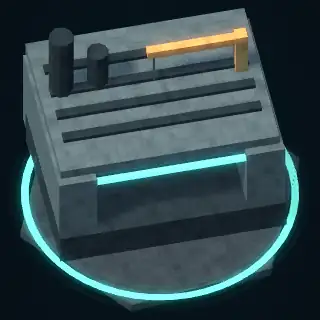
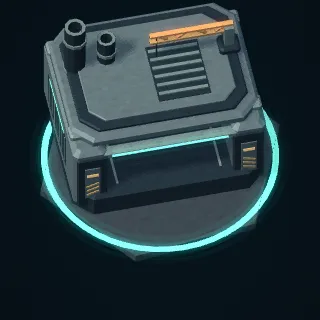
feat: detail faction 0 factory and flight deck models

diff --git a/src/renderer/models/faction-0-building-factory.js b/src/renderer/models/faction-0-building-factory.js
@@ -1,20 +1,81 @@
-/* Faction 0 / building / factory. Local +Z is the production exit. */
+/* Faction 0 / building / factory. Heavy assembly hall; production exit is +Z.
+   Fixed armor/exhausts are baked once. No moving crane, smoke or simulation state. */
 'use strict';
-registerEntityModel({
-  id: 'faction-0/building/factory',
-  render({ part: p, metal, dark, team, accent }) {
-    p('box', 0, 0.7, -0.5, 6.5, 1.2, 4.7, dark);
-    p('box', -2.7, 2, -0.8, 1.1, 2.8, 4.9, metal);
-    p('box', 2.7, 2, -0.8, 1.1, 2.8, 4.9, metal);
-    p('box', 0, 3.5, -1, 6.3, 0.42, 4.8, metal);
-    p('box', 0, 1.65, -2.7, 4.7, 2.1, 0.4, 0x30434f);
-    p('box', 0, 1.5, -2.43, 3.6, 1.4, 0.1, 0xed975d, 0, 0, 0, 0.7);
-    p('box', 0, 3.1, 1.46, 5.1, 0.15, 0.15, team, 0, 0, 0, 0.75);
-    for (let j = 0; j < 4; j++) p('box', 0, 3.76, j * 0.85 - 2.3, 5.7, 0.15, 0.28, dark);
-    p('cylinder', -2.5, 4.75, -1.6, 0.36, 2.4, 0.36, dark);
-    p('cylinder', -1.45, 4.3, -1.6, 0.31, 1.5, 0.31, dark);
-    p('box', 2.6, 4.2, -1.3, 0.35, 2, 0.35, accent);
-    p('box', 1.3, 5, -1.3, 2.8, 0.26, 0.26, accent);
-    p('box', 0.1, 4.35, -1.3, 0.055, 1.15, 0.055, metal);
+(() => {
+  function createFactoryHull() {
+    const out = [], box = geom.box(), cylinder = geom.cylinder(10),
+      metal = [1, 1, 1], dark = [.32, .4, .47], trim = [1.22, 1.22, 1.15];
+    const panel = (x, y, z, w, h, d, bevel, tint = metal) =>
+      ModelMesh.panel(out, { x, y, z, w, h, d, bevel, tint });
+    const part = (x, y, z, sx, sy, sz, tint = metal, rz = 0) =>
+      ModelMesh.bake(out, box, { x, y, z, sx, sy, sz, tint, rz });
+
+    panel(0, .65, -.5, 6.45, 1.1, 4.7, .12, dark);
+    panel(0, 3.5, -1, 6.3, .42, 4.8, .1);
+    panel(0, 3.79, -1.02, 5.65, .18, 4.25, .045, dark);
+    panel(0, 3.925, -.98, 4.95, .13, 3.65, .03);
+    panel(0, 3.05, 1.46, 4.65, .34, .36, .08, trim);
+    // Recessed rear wall and segmented blast shutter leave the forward bay open.
+    part(0, 1.75, -2.7, 4.65, 2.15, .4, dark);
+    for (let i = 0; i < 5; i++) part(0, 1.25 + i * .29, -2.484, 3.65, .2, .035, trim);
+    for (const side of [-1, 1]) {
+      panel(side * 2.67, 2, -.8, 1.14, 2.8, 4.9, .18);
+      panel(side * 2.62, 1.85, 1.51, 1.02, 2.55, .38, .09, dark);
+      part(side * 2.62, 1.86, 1.715, .52, 1.52, .04, metal);
+      // Side cooling banks sit in dark wells, between robust shoulder plates.
+      part(side * 3.247, 2.03, -.9, .016, 1.4, 2.8, dark);
+      for (let i = 0; i < 7; i++) part(side * 3.259, 2.03, -2.04 + i * .38, .025, 1.21, .105, trim);
+      for (const z of [-2.75, .78]) panel(side * 2.67, 3.49, z, 1.1, .27, .54, .065, trim);
+      part(side * 1.73, 1.214, -.28, .08, .025, 3.45, trim);
+    }
+    // Roof intake with broad louvers, distinct from the barracks' paired banks.
+    part(.75, 4.004, -.65, 1.75, .025, 2.25, dark);
+    for (let i = 0; i < 6; i++) part(.75, 4.053, -1.54 + i * .35, 1.65, .065, .12, trim);
+    // Closed, hollow-topped exhaust stubs: dark inner walls and recessed floors.
+    const exhaust = (x, top, radius) => {
+      const base = 3.62, z = -1.65, inner = radius * .65;
+      const point = (i, r, y) => [x + Math.cos(i * Math.PI / 5) * r, y, z + Math.sin(i * Math.PI / 5) * r];
+      for (let i = 0; i < 10; i++) {
+        const a = point(i, radius, base), b = point(i + 1, radius, base),
+          c = point(i, radius, top), d = point(i + 1, radius, top),
+          e = point(i, inner, top), f = point(i + 1, inner, top),
+          g = point(i, inner, top - .32), h = point(i + 1, inner, top - .32);
+        geom.tri(out, a, c, d, dark); geom.tri(out, a, d, b, dark);
+        geom.tri(out, c, e, f, trim); geom.tri(out, c, f, d, trim);
+        geom.tri(out, e, g, h, dark); geom.tri(out, e, h, f, dark);
+        geom.tri(out, [x, top - .32, z], h, g, [.18, .22, .27]);
+        geom.tri(out, [x, base, z], a, b, dark);
+      }
+      for (const y of [3.77, top - .65])
+        ModelMesh.bake(out, cylinder, { x, y, z, sx: radius * 1.13, sy: .14, sz: radius * 1.13, tint: trim });
+    };
+    exhaust(-2.5, 5.95, .36);
+    exhaust(-1.45, 5.05, .31);
+    // Fixed crane footing and cable; its safety-yellow beam remains separately tinted.
+    panel(2.58, 4.08, -1.3, .7, .3, .7, .07, dark);
+    part(2.58, 4.6, -1.3, .32, .98, .32, trim);
+    part(.16, 4.45, -1.3, .045, 1.15, .045, dark);
+    part(.28, 3.895, -1.3, .28, .09, .1, trim);
+    return out;
   }
-});
+
+  registerEntityModel({
+    id: 'faction-0/building/factory',
+    meshes: { faction0FactoryHull: createFactoryHull },
+    render({ part: p, metal, team, accent }) {
+      p('faction0FactoryHull', 0, 0, 0, 1, 1, 1, metal);
+      p('box', 0, 3.07, 1.657, 3.9, .1, .025, team, 0, 0, 0, .75);
+      p('box', 0, 2.43, -2.451, 3.6, .1, .025, 0xed975d, 0, 0, 0, .5);
+      for (const side of [-1, 1]) {
+        p('box', side * 2.62, 2.28, 1.746, .39, .12, .025, accent, 0, 0, 0, .35);
+        p('box', side * 3.278, 2.83, -.9, .025, .13, 2.2, team, 0, 0, 0, .3);
+        for (let i = 0; i < 3; i++)
+          p('box', side * 2.62, 1.35 + i * .21, 1.746, .44, .08, .025, accent, 0, 0, side * -.35);
+      }
+      // Open truss crane: two rails and diagonal braces instead of a glowing stick.
+      for (const y of [4.9, 5.22]) p('box', 1.33, y, -1.3, 2.8, .09, .18, accent);
+      for (let i = 0; i < 4; i++)
+        p('box', .35 + i * .65, 5.06, -1.3, .055, .43, .12, accent, 0, 0, i % 2 ? -.9 : .9);
+    }
+  });
+})();

diff --git a/src/renderer/models/faction-0-building-hangar.js b/src/renderer/models/faction-0-building-hangar.js
@@ -1,21 +1,72 @@
-/* Faction 0 / building / hangar. Local +Z is the production exit/deck. */
+/* Faction 0 / building / hangar. Open +Z flight apron, fixed port control tower.
+   Deck and armor are baked once; H marking, approach lights and glazing stay instanced. */
 'use strict';
-registerEntityModel({
-  id: 'faction-0/building/hangar',
-  render({ part: p, metal, dark, team }) {
-    p('box', 0, 0.7, -0.5, 6.5, 1.2, 4.7, dark);
-    p('box', -2.7, 2, -0.8, 1.1, 2.8, 4.9, metal);
-    p('box', 2.7, 2, -0.8, 1.1, 2.8, 4.9, metal);
-    p('box', 0, 3.5, -1, 6.3, 0.42, 4.8, metal);
-    p('box', 0, 1.65, -2.7, 4.7, 2.1, 0.4, 0x30434f);
-    p('box', 0, 1.5, -2.43, 3.6, 1.4, 0.1, team, 0, 0, 0, 0.7);
-    p('box', 0, 3.1, 1.46, 5.1, 0.15, 0.15, team, 0, 0, 0, 0.75);
-    for (let j = 0; j < 4; j++) p('box', 0, 3.76, j * 0.85 - 2.3, 5.7, 0.15, 0.28, dark);
-    p('hex', 0, 0.25, 3.0, 3.1, 0.14, 3.1, metal);
-    p('box', -0.65, 0.36, 3, 0.12, 0.03, 1.8, team);
-    p('box', 0.65, 0.36, 3, 0.12, 0.03, 1.8, team);
-    p('box', 0, 0.36, 3, 1.3, 0.03, 0.12, team);
-    p('box', -2.6, 4.5, -1.5, 1.15, 1.6, 1.1, metal);
-    p('box', -2.6, 5.0, -0.9, 1.18, 0.45, 0.08, team, 0, 0, 0, 0.7);
+(() => {
+  function createHangarHull() {
+    const out = [], box = geom.box(), hex = geom.cylinder(6),
+      metal = [1, 1, 1], dark = [.34, .42, .49], trim = [1.23, 1.25, 1.2];
+    const panel = (x, y, z, w, h, d, bevel, tint = metal) =>
+      ModelMesh.panel(out, { x, y, z, w, h, d, bevel, tint });
+    const part = (x, y, z, sx, sy, sz, tint = metal) =>
+      ModelMesh.bake(out, box, { x, y, z, sx, sy, sz, tint });
+
+    panel(0, .66, -.5, 6.45, 1.12, 4.7, .13, dark);
+    panel(0, 3.49, -1, 6.3, .44, 4.8, .11);
+    panel(0, 3.77, -1.04, 5.65, .18, 4.22, .045, dark);
+    panel(.18, 3.91, -.96, 4.74, .14, 3.57, .035);
+    panel(0, 3.06, 1.45, 4.62, .28, .4, .07, trim);
+    part(0, 1.7, -2.7, 4.65, 2.1, .4, dark);
+    for (let i = 0; i < 5; i++) part(0, 1.18 + i * .3, -2.484, 3.7, .23, .03, metal);
+    for (const side of [-1, 1]) {
+      panel(side * 2.67, 2, -.8, 1.14, 2.8, 4.9, .19);
+      panel(side * 2.64, 1.84, 1.53, .95, 2.45, .36, .085, dark);
+      part(side * 2.64, 1.83, 1.727, .54, 1.53, .025, metal);
+      // Long hangar shoulder rails, smaller than the foundry's cooling armor.
+      panel(side * 2.66, 3.47, -.68, 1.02, .23, 3.9, .055, trim);
+      part(side * 3.248, 1.8, -.7, .015, .86, 2.7, dark);
+      for (let i = 0; i < 6; i++) part(side * 3.262, 1.8, -1.8 + i * .43, .025, .72, .09, trim);
+    }
+    // Same hexagonal apron footprint, two shallow deck levels and tie-down plates.
+    ModelMesh.bake(out, hex, { y: .25, z: 3, sx: 3.1, sy: .14, sz: 3.1, tint: dark });
+    ModelMesh.bake(out, hex, { y: .35, z: 3, sx: 2.94, sy: .06, sz: 2.94, tint: metal });
+    for (const side of [-1, 1]) {
+      for (const z of [2.3, 3.2, 4.1]) {
+        part(side * 1.72, .393, z, .35, .025, .27, dark);
+        part(side * 1.72, .412, z, .13, .014, .08, trim);
+      }
+      part(side * 1.03, .398, 3.18, .045, .025, 2.34, trim);
+      // Nose access/maintenance modules do not extend the original deck outline.
+      panel(side * 1.05, .34, 5.08, .7, .25, .44, .06, dark);
+    }
+    // Compact asymmetric control tower and roof service trunk.
+    panel(-2.6, 4.48, -1.5, 1.15, 1.58, 1.1, .12);
+    panel(-2.6, 5.23, -1.5, 1.27, .14, 1.2, .035, dark);
+    panel(-2.6, 5.33, -1.5, .94, .08, .87, .02, trim);
+    panel(.8, 4.065, -1.1, .72, .2, 2.45, .045, dark);
+    for (let i = 0; i < 5; i++) part(.8, 4.185, -1.9 + i * .39, .55, .065, .12, trim);
+    part(-.76, 4.008, -.88, .055, .025, 2.5, dark);
+    return out;
   }
-});
+
+  registerEntityModel({
+    id: 'faction-0/building/hangar',
+    meshes: { faction0HangarHull: createHangarHull },
+    render({ part: p, metal, team, accent }) {
+      p('faction0HangarHull', 0, 0, 0, 1, 1, 1, metal);
+      p('box', 0, 3.07, 1.667, 3.92, .095, .025, team, 0, 0, 0, .75);
+      p('box', 0, 2.48, -2.458, 3.4, .12, .025, team, 0, 0, 0, .4);
+      // Broad H plus paired approach lights, readable from the battle camera.
+      for (const side of [-1, 1]) {
+        p('box', side * .65, .407, 3.25, .14, .025, 1.8, team, 0, 0, 0, .2);
+        for (const z of [2.2, 3.3, 4.4])
+          p('box', side * 1.95, .406, z, .19, .035, .22, team, 0, 0, 0, .65);
+        p('box', side * 2.64, 2.36, 1.753, .44, .105, .025, accent, 0, 0, 0, .3);
+        p('box', side * 2.66, 3.601, -.68, .08, .025, 2.85, team, 0, 0, 0, .25);
+      }
+      p('box', 0, .407, 3.25, 1.3, .025, .14, team, 0, 0, 0, .2);
+      p('box', -2.6, 4.91, -.938, .81, .3, .025, team, 0, 0, 0, .65);
+      p('box', -3.188, 4.91, -1.5, .025, .3, .68, team, 0, 0, 0, .5);
+      p('box', -2.6, 5.383, -1.5, .22, .035, .22, accent, 0, 0, 0, .4);
+    }
+  });
+})();

diff --git a/docs/rendering.md b/docs/rendering.md
@@ -15,6 +15,9 @@ Technische Modellbezeichner verwenden Fraktionsnummer und Entitätstyp statt Spi
 - **Free-Marches-Worker (Prospector):** kompaktes ockerfarbenes Kettenfahrzeug mit abgeschrägtem Gehäuse/Sensorkopf, Kühler, je drei Laufrollen und 24 Kettengliedern, Scheinwerfern und eingefasstem Signallicht. `geom.workerHull()` bündelt das Fahrgestell in 1.452 Dreiecken; `geom.workerDrill()` ergänzt einen geriffelten Bohrkopf mit 120 Dreiecken. Beide Meshes werden einmal hochgeladen und instanziert. Team-/Vorschaufarben, Ausrichtung und vorhandene Frachtanzeige bleiben erhalten; keine neue Bewegungsanimation, kein RNG und keine Änderungen an Größe, Tempo, Sammeln oder anderen Fraktionen. Tatsächliche Kosten vieler Worker auf Mobil-GPUs noch nicht gemessen.
 - **Free-Marches-HQ:** `geom.commandHull()` bündelt abgeschrägte Rumpf-/Dachpanzerung, Seitenrippen, Eingangspfeiler und Trittstufe in einem einmalig hochgeladenen Mesh mit 1.152 Dreiecken. Vertextönungen multiplizieren die bestehende Metall-/Vorschaufarbe; Leuchten, Dachmarkierungen, Lüftungsgitter und Antennen ergänzen die Hülle als instanzierte Grundformen. Fundament, Teamfarben, Gebäudeausrichtung, Baufortschrittsdarstellung und Spielradien bleiben erhalten; andere Gebäude/Fraktionen unverändert. Keine neuen Texturen, Shader oder RNG-Aufrufe.
 - **Fraktion 0 / Barracks:** `faction0BarracksHull` bündelt abgeschrägte Haupt-/Dachpanzerung, zurückgesetzte +Z-Truppenschleuse mit Eingangspfeilern, seitliche Versorgungsmodule, Dachkühlgitter, Mittelrippe, Wartungsluke und Antenne in **1.392 Dreiecken**. Teamstreifen, Eingangsleuchten und Signalflächen bleiben separate Instanzen. Fertiges Gebäude einschließlich Fundament: **12 Teilinstanzen / 1.620 Dreiecke**, statt 15 / 304; alle Qualitätsstufen verwenden dieselben Meshes. In Isolation vier Meshchargen pro Szenenpass (mit Schatten acht), kein Draw Call je Teil. In einer gemischten Szene kommt die eigene Hüllcharge hinzu. Hauptmesh innerhalb X ±3,1 / Z −2,2 bis +2,25 / Y 0,1–4,6; Kollisionsgröße 3, Produktionsausfahrt, Werte, Drehung, Baufortschritt und Preview-/Gegnerfarben bleiben unverändert. Keine neue Animation, Textur, Shader oder RNG-Aufrufe. Nur `assets/portraits/faction-0-building-barracks.webp` wurde passend erneuert (320×320, WebP-Qualität 80).
+- **Fraktion 0 / Factory (War foundry):** `faction0FactoryHull` mit **1.648 Dreiecken**: abgeschrägte Hallen-/Schulterpanzerung, offene +Z-Montagebucht, zurückgesetztes segmentiertes Schott, seitliche Kühlbänke und zwei innen ausgeformte Abgasstutzen. Feststehender Fachwerkkran, Sicherheitsmarkierungen und Leuchten ergänzen die Hülle. Fertig samt Fundament **21 Teilinstanzen / 1.984 Dreiecke**, zuvor 18 / 368. Hülle innerhalb X ±3,3 / Z −3,4 bis +1,85 / Y 0,1–6; die seitlichen Kühllamellen stehen nur wenige Zentimeter über die bisherige Verkleidung hinaus, Kollisionsgröße unverändert 3,8.
+- **Fraktion 0 / Hangar (Flight deck):** `faction0HangarHull` mit **1.640 Dreiecken**: gerahmte offene +Z-Flugbucht, Schulterpanzerung, seitlicher Kontrollturm, Wartungsaufbau und zweistufiges Hex-Flugdeck mit Halteplatten. Separates H, sechs Anfluglichter und Turmverglasung bleiben teamfarbig. Fertig samt Fundament **21 Teilinstanzen / 1.976 Dreiecke**, zuvor 19 / 336. Hülle innerhalb X ±3,3 / Z −3,4 bis +6,1 / Y 0,1–5,4; das vordere Deck behält seinen bisherigen Hex-Umriss (Radius 3,1, Zentrum Z 3). Dieser sichtbare Vorbau erweitert weiterhin nicht den Kollisionsradius 3,8.
+- **Factory/Hangar-Vertrag:** alle Qualitätsstufen verwenden dieselben Meshes; jeweils vier Meshchargen in Isolation pro Szenenpass, acht einschließlich Schatten. In gemischten Szenen kommen zwei eigene Hüllchargen hinzu. Produktion, Ausfahrtsposition/-richtung, Flugzeuganstieg, Baufortschritt, Team-/Ghost-/Previewdarstellung und Spielwerte bleiben unverändert; keine neue Animation, Rauch, Textur, Shader oder RNG-Aufrufe. Nur die beiden entsprechenden 320×320-Portraits (`faction-0-building-factory.webp`, `faction-0-building-hangar.webp`) wurden aus den tatsächlichen Modellen manuell in Balanced ohne Welt/Himmel erneuert, WebP-Qualität 80.
 - **Aether Vent:** flache achteckige Panzerplattform mit abgeschrägten Kanten, 16 Sockelsegmenten, vier erhöhten Halteklammern und Kristallfassung. `geom.aetherVent()` liefert ein gemeinsames Metallmesh mit 1.152 Dreiecken und vier Vertexfarben; einmal beim Rendererstart hochgeladen, für alle Vents instanziert. Zwei separate cyanfarbene Ringe und der rotierende, richtungsbeleuchtete Kristall ergänzen das Modell. Vorhandene Dampfeffekte bleiben unverändert. Keine neuen Texturen, Shader oder RNG-Aufrufe; Positionen, Ressourcenmengen, Spielradien und Raffineriezugang bleiben erhalten. Alle Qualitätsstufen verwenden dieselbe Geometrie; reale Mobil-GPU-Kosten noch nicht gemessen.
 - **Gebirgsring:** `geom.mountainRing(seed)`, geschlossene Umrandung aus 36.480 Dreiecken statt grober Pyramiden: 384 Umfangsspalten × 40 Hangabschnitte, 20 unregelmäßig verteilte breite Gipfel bis etwa 50 Welteinheiten, vorgelagerte Schultern, Rinnen, mehrskalige Rauheit und 80 eingebettete Geröllfelsen. Eigener kosmetischer Seed-RNG, keine zusätzliche Platzierungs-/Simulationszufälligkeit. Fuß unverändert bei ±87 außerhalb der begehbaren Grenze, Außenschürze bis ±123; auch Eckdreiecke und Geröll bleiben vollständig außerhalb. Der Ring verwendet ebenfalls `MAT.MASSIF` ohne die Streifen kleiner Felsen. Alles bleibt ein Mesh, pro Weltwechsel erzeugt/hochgeladen und pro aktivem Pass eine statische Charge. Die höhere Polygonzahl erhöht trotzdem Erzeugungs-/GPU-Kosten. Die bestehenden kleinen Innenfelsen sind höher und weniger geneigt; ihre Positionen/Radien bleiben erhalten.
 - **Breite Innenmassive:** maximal zwei eigenständige Gebirgszüge, keine hochskalierten Felsnadeln. `Battlefield.addMassifs()` bestimmt mit separatem Seed-RNG Lage, Drehung und unregelmäßige 96-Punkt-Umrisse; Halbachsen 29–38 × 17–23 m, durch den Umrissfaktor meist etwa 50–65 × 29–40 m Grundfläche. Höhenparameter 20–27 m statt zusätzlicher Höhensteigerung. `geom.massif(m)` baut je 11.712 Dreiecke: zusammenhängende Hänge, vier verbundene Gipfel, mehrskalige Oberflächenrauheit, Rinnen und 56 Geröllfelsen. `MAT.MASSIF` nutzt vorhandene Bodentexturen ohne die regelmäßigen Streifen kleiner Felsen, mit weichem Bodenkontakt. Keine neuen Bildquellen.
@@ -28,9 +31,9 @@ Der Pilot **Fraktion 0 / building / barracks** liegt in `src/renderer/models/fac
 - `registerEntityModel({ id: 'faction-0/building/barracks', meshes: { meshName: factory }, render(context) })`. Registrierung prüft doppelte IDs/Meshnamen atomar; Kollisionen mit bestehenden Renderer-Meshnamen werden vor dem Fabrikaufruf beim Upload abgelehnt. Fabriken liefern synchron neun Zahlen je Vertex (Position, Normale, relativer RGB-Tint), ohne RNG; ein Upload je Rendererstart, keine Geometrieerzeugung im Frame.
 - `context` enthält `entity`, `time`, `part`, `ring`, `metal`, `dark`, `team`, `accent`. `part` hat den bisherigen lokalen `p`-Vertrag: Mesh, lokale Position, Skalierung, Farbe, optionale Y/X/Z-Rotation, Glow, Alpha, Material. Weltposition, Gebäude-/Gegnerdrehung, Flughöhe, vertikaler Baufortschritt, Ghost-/Previewfarben und Layer bleiben im Adapter. Plattform und Baugerüst zeichnet der Adapter außerhalb des Modellcallbacks. `ring` bleibt der bisherige Effektring (nicht automatisch bauhöhen-/tintskaliert).
 - `ModelMesh.panel(out, {x,y,z,w,h,d,bevel,tint})` erzeugt einen geschlossenen abgeschrägten Panzerkörper mit 64 Dreiecken. `ModelMesh.bake(out, mesh, {x,y,z,sx,sy,sz,ry,rx,rz,tint})` backt ein Primitiv mit positiven Skalen und derselben Y×X×Z-Rotation wie der Renderer; flache Normalen werden nach der Transformation neu berechnet, Vertexfarben multipliziert. Keine allgemeine Modell-DSL; weitere Helfer erst bei konkretem Bedarf.
-- Eigene Tests verwenden `tests/helpers/model-contract.cjs` für Bounds, Dreiecksbudget, Normale, relative Tints, unveränderte Eingaben und Varianten. Unbeteiligte Modelle schützt die [Zeichenreferenz](reference-tests.md). Ein verfeinertes Modell braucht zusätzlich `npm test`, `file://`-Sichtung aller betroffenen Zustände/Qualitäten und gegebenenfalls ein manuell erneuertes WebP-Portrait.
+- Eigene Tests verwenden `tests/helpers/model-contract.cjs` für Bounds, Dreiecksbudget, Normale, relative Tints, unveränderte Eingaben und Varianten. `assertBuildingAssembly` bündelt zusätzlich den gemeinsamen Vertrag der statischen Factory-/Hangar-Hüllen (Fundament/Baugerüst, +Z-Portallicht, Yaw, Tint/Alpha/Layer/Material, keine Frame-Geometrie); spezifische Silhouettenmerkmale bleiben in den Einzeltests. Gemeinsame Zeichenisolation liegt in `tests/models/model-isolation.check.cjs`, nicht in einem einzelnen Modelltest. Unbeteiligte Modelle schützt die [Zeichenreferenz](reference-tests.md). Ein verfeinertes Modell braucht zusätzlich `npm test`, `file://`-Sichtung aller betroffenen Zustände/Qualitäten und gegebenenfalls ein manuell erneuertes WebP-Portrait.
 
-**Pilot-Auswertung / nächste Modellaufträge:** `panel` und `bake` reichen für die wiederkehrenden Panzerkörper, Kühlrippen und Primitivteile des Piloten; HQ-/Worker-/Turret-/Vent-Geometrie bleibt unverändert. Der Kontext trägt Gebäude sowie vorhandene Workerbewegung/Fracht über die Eingabeentität, ohne Simulationszugriff; ein gerichteter Turmkopf braucht bei seiner späteren Migration zusätzlich die zentrale Basisrotation im Kontext statt eine duplizierte Berechnung. Diese Erweiterung erst zusammen mit dem konkreten Modell und seinem Vertragstest vornehmen. Keine vorsorgliche Migration oder neue Vorschau-/Portraitpipeline. Ein Folgeissue legt ID, Silhouettenziel/Referenzansicht, Bounds, erlaubte Animation, Dreiecks-/Instanzbudget und Portrait fest; neue Meshchargen in gemischten Szenen separat bewerten. Reale Mobil-GPU-Kosten bleiben offen.
+**Pilot-Auswertung / nächste Modellaufträge:** `panel` und `bake` reichen auch für die wiederkehrenden Panzerkörper, Kühlrippen und Primitivteile von Factory/Hangar. Die ausschließlich dort benötigte Hohlstutzen-Geometrie bleibt lokal in der Factory-Datei; keine Registry-/Renderer-/Meshkit-Erweiterung für diese beiden Folgeaufträge. Barracks-/HQ-/Worker-/Turret-/Vent-Geometrie bleibt unverändert. Der Kontext trägt Gebäude sowie vorhandene Workerbewegung/Fracht über die Eingabeentität, ohne Simulationszugriff; ein gerichteter Turmkopf braucht bei seiner späteren Migration zusätzlich die zentrale Basisrotation im Kontext statt eine duplizierte Berechnung. Diese Erweiterung erst zusammen mit dem konkreten Modell und seinem Vertragstest vornehmen. Keine vorsorgliche Migration oder neue Vorschau-/Portraitpipeline. Ein Folgeissue legt ID, Silhouettenziel/Referenzansicht, Bounds, erlaubte Animation, Dreiecks-/Instanzbudget und Portrait fest; neue Meshchargen in gemischten Szenen separat bewerten. Reale Mobil-GPU-Kosten bleiben offen.
 
 ## Qualitätsstufen
 

diff --git a/docs/worklog.md b/docs/worklog.md
@@ -2,6 +2,13 @@
 
 Kompakter Übergabestand und letzte Prüfnachweise. Ältere Implementierungs-, Diagnose- und Refactoringprotokolle liegen in Git. Neue Einträge kurz halten; Regeln und offene Prioritäten direkt in den Referenzdokumenten pflegen.
 
+## Factory/Hangar: verfeinerte Produktionsgebäude
+
+- Nach der zeichnungsidentischen Auslagerung (`58088fc`) zwei eigene Hüllen umgesetzt: Factory mit gepanzerter Montagebucht, Kühlbänken, Hohlstutzen und Fachwerkkran; Hangar mit gestuftem Hex-Flugdeck, Anfluglichtern und Kontrollturm. Je 21 Instanzen; Hüllen 1.648/1.640, komplette Modelle 1.984/1.976 Dreiecke. Nur beide zugehörigen 320×320-WebP-Portraits erneuert (Qualität 80). Vorhandenes Meshkit/Registry/Renderer und die freigegebene Barracks unverändert; gemeinsamer Produktionsgebäude-Testvertrag ergänzt.
+- **Geprüft:** `npm test` **267/267 bestanden**; nur 36 Factory-/Hangar-Varianten ändern sich. 720 übrige Zeichenvarianten, bestehende Meshes einschließlich Barracks und drei kontrollierte 20-s-Fraktionsruns samt RNG/Schüssen identisch; sämtliche Fixtures unverändert. Diff, Dokumentationslinks und vollständige WebP-Dekodierung geprüft.
+- **Chromium `file://`:** einmaliger Hüllupload, Nahansichten/Spieler/Gegner/Teilbau/Ghost in Performance/Balanced/High gesichtet, beide neuen Portraits 320×320 geladen, GL 0 und keine Lade-/Laufzeitfehler. Bei 390×844 mit emuliertem Touch Baumenü gesichtet und beide Platzierungsmodi mit kontrolliert bereitgestellten Voraussetzungen geöffnet. Seed-1409-Szene mit 132 Entitäten, je einer Spieler-Factory/einem Hangar, Zoom 57 bei 1280×800 vor/nachher gesichtet: 172.042 → 175.298 Dreiecke, Modell-/Terrainchargen Performance 28 → 30, Balanced/High 54 → 58 einschließlich Schatten, ohne Vollbildpässe.
+- **Messgrenzen:** Software-WebGL, jeweils 3 Warmup-/20 Messframes via RAF mit Pixel-Readback: Performance 8,50 → 8,24 FPS, Balanced 3,17 → 3,11, High 3,20 → 3,05. Kurzer readbackbelasteter Headless-Vergleich, kein belastbarer Echtgeräte-/Langzeitnachweis. Nur bekannte Software-WebGL-Warnungen; keine Sicherheitsflags gelockert, keine vollständigen Runs oder öffentliche Auslieferung geprüft.
+
 ## Factory/Hangar: mechanische Auslagerung
 
 - Fraktion 0 / building / factory und hangar in getrennte Modelldateien verschoben; vorhandene Registry, Meshhilfen und Renderer-Laufzeit unverändert. Gemeinsame Zeichenisolation aus dem Barracks-Test gelöst, freigegebene Barracks-Zeichenfolge aus `19dd176` zusätzlich festgehalten. Noch keine neue Gestaltung oder Portraitänderung.

diff --git a/docs/architecture.md b/docs/architecture.md
@@ -22,7 +22,7 @@ Die Quellreihenfolge entspricht den `data-meridian-script`-Tags in `index.html`;
 | `src/renderer/geometry.js` | Prozedurale Mesh-Erzeugung: `geom` |
 | `src/renderer/model-kit.js` | Synchrone `EntityModels`-Registry, `registerEntityModel` und CPU-Meshhilfen `ModelMesh` |
 | `src/renderer/models/faction-0-building-barracks.js` | Isolierte Meshfabrik und Modellassemblierung für Fraktion 0 / building / barracks |
-| `src/renderer/models/faction-0-building-factory.js`, `faction-0-building-hangar.js` | Eigene Modellassemblierungen für Fraktion 0 / building / factory und hangar |
+| `src/renderer/models/faction-0-building-factory.js`, `faction-0-building-hangar.js` | Eigene Meshfabriken und Modellassemblierungen für Fraktion 0 / building / factory und hangar |
 | `src/renderer/shaders.js` | GLSL-Quellen für Szene, Schatten, Himmel und Postprocessing |
 | `src/renderer/runtime.js` | WebGL-2-Ressourcen und Renderpässe: `MeridianRenderer` |
 | `src/content.ts` | Neutrale Fraktions-IDs `FACTION_ID`, typisierte Kataloge `FACTIONS`, `UNITS`, `BUILDINGS`, `ABILITIES`, `META`, `BIOMES`, Icons und Namenshelfer |
